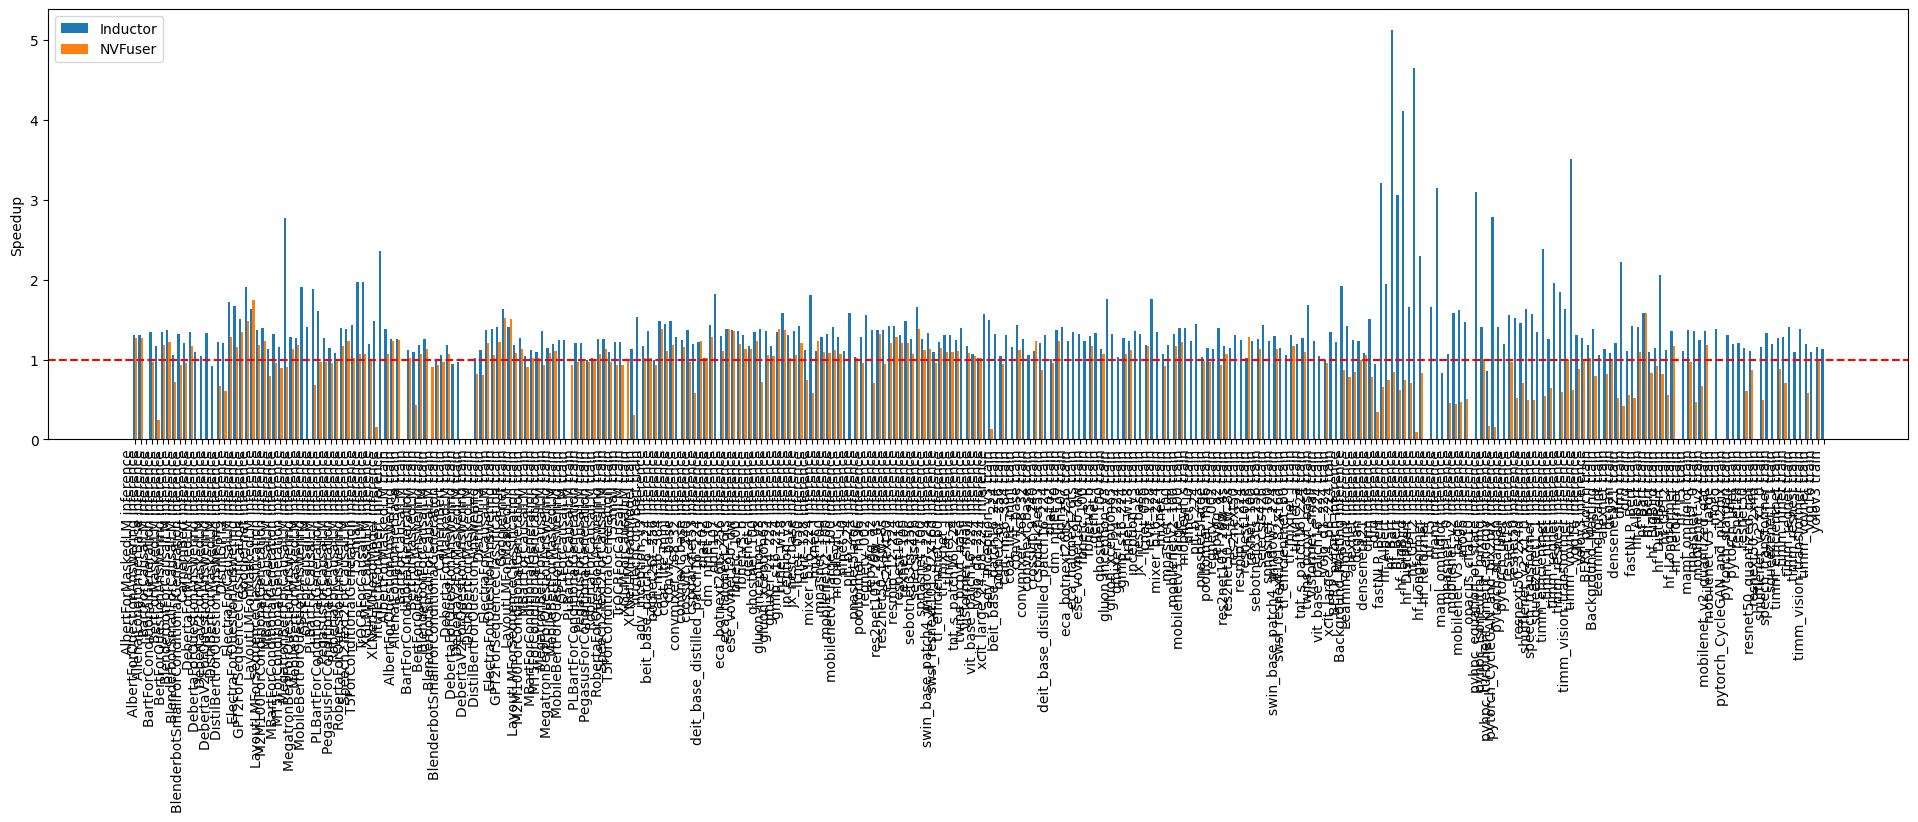
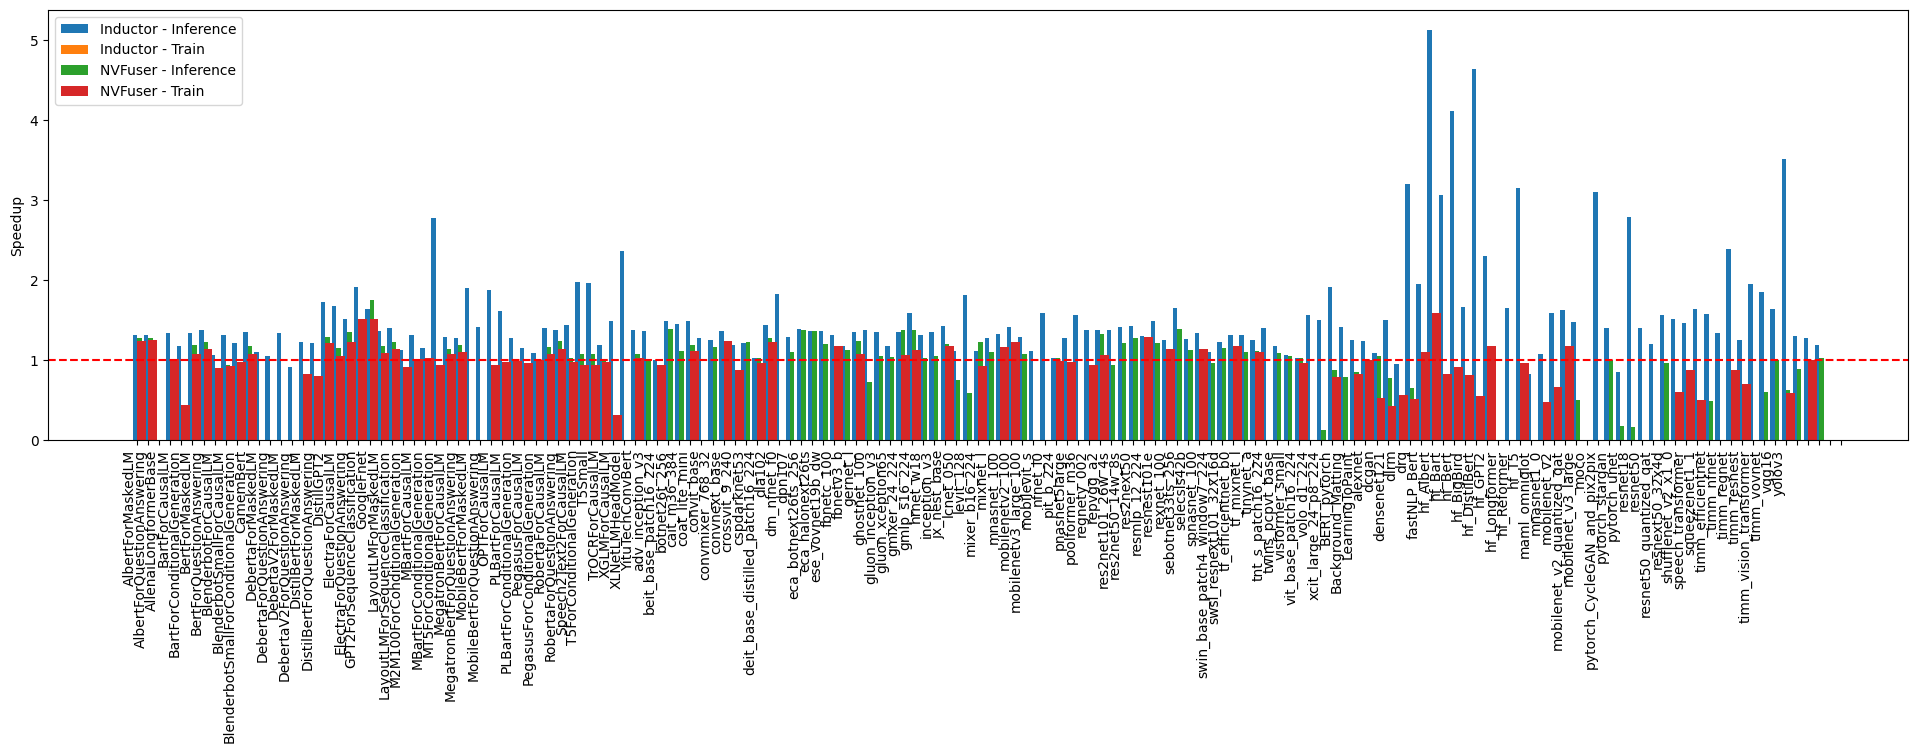
fixes

Changed region(s): [[0.0615, 0.0916, 0.9844, 0.9774], [0.0308, 0.0, 0.9844, 0.1527], [0.0, 0.2444, 0.0308, 0.336]]

diff --git a/data/graph.py b/data/graph.py
@@ -43,6 +43,13 @@ def graph_delta(data_names, title):
     data = []
     names = []
 
+    # Plot the performances for the datasets
+    fig, ax = plt.subplots(figsize=(24, 10))
+    fig.subplots_adjust(bottom=0.45)
+    plt.rc('xtick', labelsize=8)    # fontsize of the tick labels
+
+    width = -0.4
+
     last_names = []
     for (d, n) in data_names:
         # Filter out the rows with bad data
@@ -60,25 +67,24 @@ def graph_delta(data_names, title):
             except:
                 performances.append(float('nan'))
 
-        print(set(model_names) - set(last_names))
-        print(set(last_names) - set(model_names))
-        breakpoint()
+        # print(set(model_names) - set(last_names))
+        # print(set(last_names) - set(model_names))
+        # breakpoint()
         last_names = model_names
-        data.append(performances)
+        # data.append(performances)
         names.append(n)
 
-    
-    assert len(data) == len(names), "The number of data sets must match the number of names"
-
-    # Plot the performances for the datasets
-    fig, ax = plt.subplots(figsize=(24, 10))
-    fig.subplots_adjust(bottom=0.45)
-    plt.rc('xtick', labelsize=8)    # fontsize of the tick labels
-
-    width = -0.4
-    for i, d in enumerate(data):
-        ax.bar(model_names, d, width=width, align='edge', label=names[i])
+        ax.bar(model_names, performances, width=width, align='edge', label=n)
         width += 0.4
+        ax.set_xticklabels(model_names, rotation=90, ha='right')
+
+
+    
+    # assert len(data) == len(names), "The number of data sets must match the number of names"
+
+    # for i, d in enumerate(data):
+    #     ax.bar(model_names, d, width=width, align='edge', label=names[i])
+    #     width += 0.4
 
     ax.axhline(y=1, color='r', linestyle='--')
     ax.set_ylim(bottom=0)
